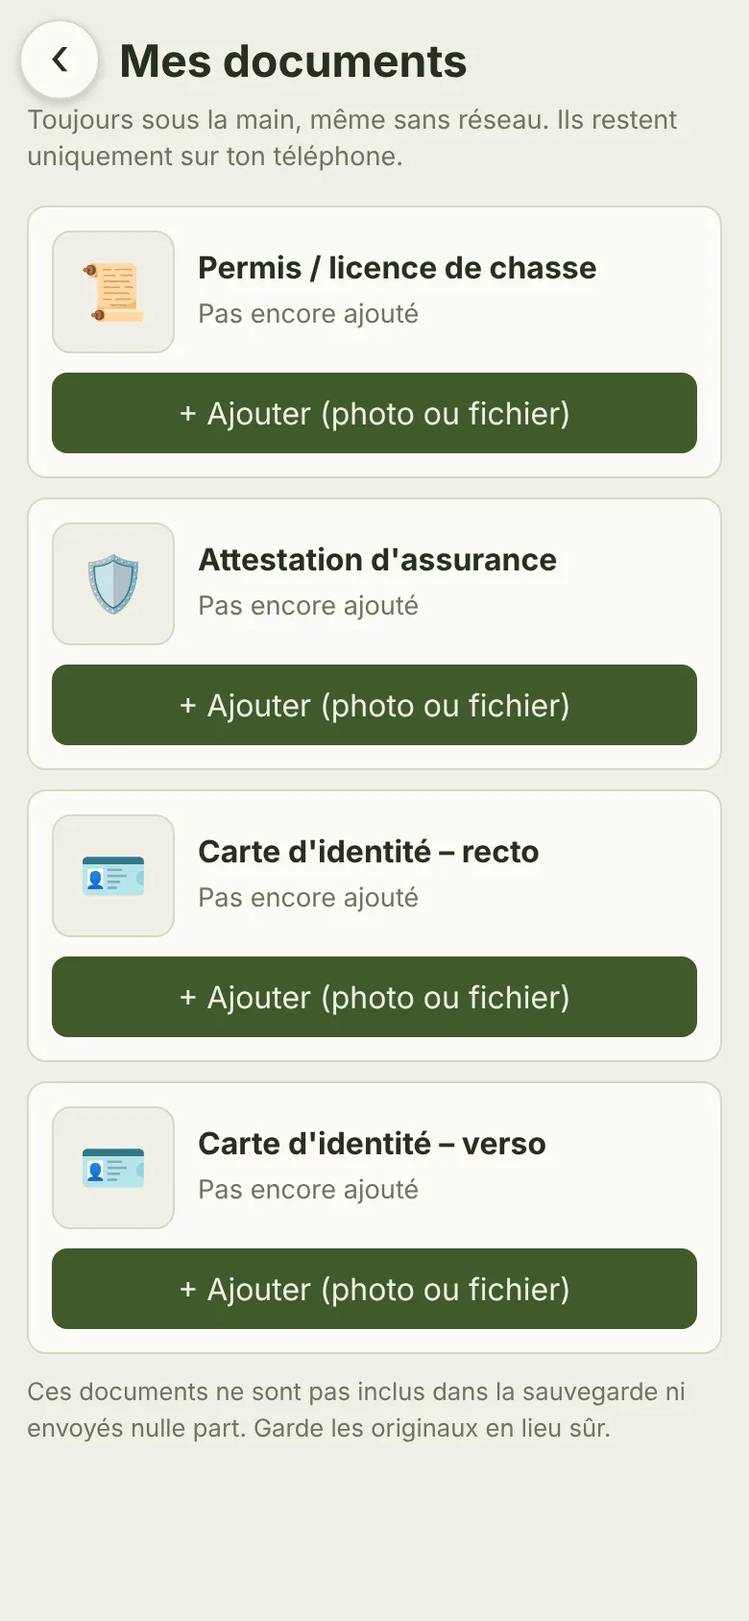
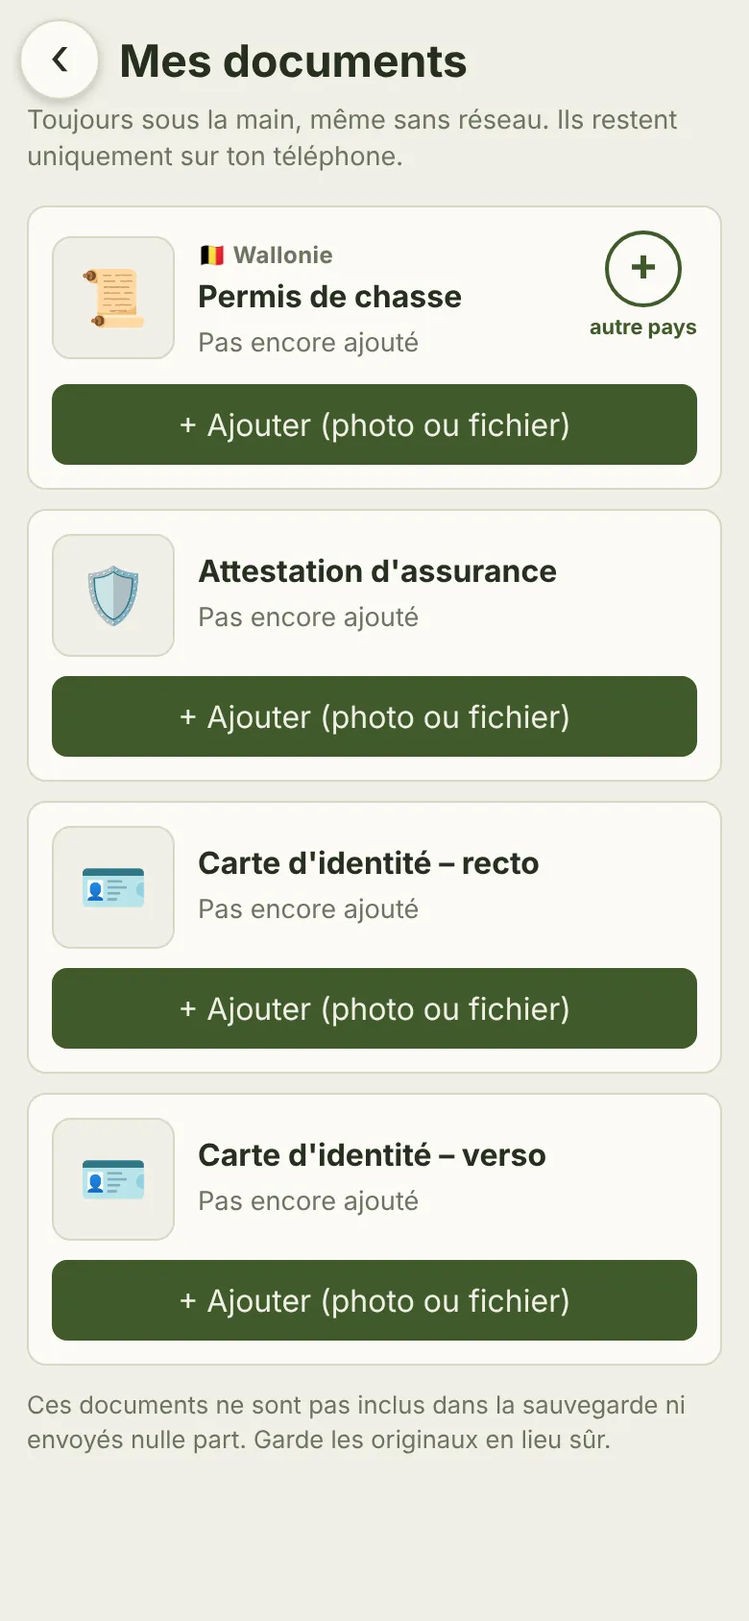
Menu épuré (proposition A) et page Paramètres
- menu : affichage, Ma chasse (4 rubriques), Paramètres, Inviter, Suivez-nous (Facebook), Donner mon avis
- page Paramètres : région, thème, rappels, synchronisation, import/export, sauvegarde, statistiques anonymes, visite guidée, à propos
- visite guidée : images et repères mis à jour
- version 2026-10-14g, sw v56

Claude-Session: https://claude.ai/code/session_0186hciEuPyU4mgRMjZZiZQe

Changed region(s): [[0.0308, 0.1232, 0.9538, 0.8934], [0.0923, 0.7085, 0.2154, 0.7393]]

diff --git a/index.html b/index.html
@@ -31,6 +31,19 @@ label{display:block;font-size:.85rem;color:var(--mut);margin:10px 0 3px}label.ck
 .row{display:flex;gap:8px;align-items:center}.row>*{flex:1}
 #dr{position:fixed;left:0;top:0;bottom:0;max-height:100dvh;overscroll-behavior:contain;width:var(--dw);background:var(--card);border-right:1px solid var(--line);transform:translateX(-100%);transition:transform .25s;padding:calc(14px + env(safe-area-inset-top,0px)) 12px calc(14px + env(safe-area-inset-bottom,0px));display:flex;flex-direction:column;overflow:auto;z-index:5}
 body.dr #dr{transform:none}
+#dr .dhd{display:flex;align-items:center;justify-content:space-between;gap:8px;margin:2px 4px 6px}#dr .dhd b{font:800 1.35rem system-ui}
+.dchip{border:0;background:var(--bg);color:var(--ink);border-radius:20px;padding:6px 11px;font:600 .82rem system-ui;white-space:nowrap}
+.dlab{font:700 .7rem system-ui;letter-spacing:.08em;text-transform:uppercase;color:var(--mut);margin:12px 8px 6px}
+.dseg{display:flex;background:var(--bg);border-radius:12px;padding:3px}.dseg button{flex:1;border:0;background:none;color:var(--mut);font:600 .88rem system-ui;padding:8px 0;border-radius:9px}.dseg button.on{background:var(--card);color:var(--acc);box-shadow:0 1px 3px #0002}
+#dr .m.mi2{display:flex;align-items:center;gap:13px;padding:10px 8px}.mi{width:22px;height:22px;flex:0 0 auto;stroke:var(--acc);fill:none;stroke-width:1.8;stroke-linecap:round;stroke-linejoin:round}
+.dch{margin-left:auto;color:var(--mut);font-size:1.2rem;line-height:1}
+.dfb{display:flex;align-items:center;justify-content:center;gap:8px;width:100%;border:0;border-radius:12px;background:#e8a032;color:#2a1c05;font:800 .98rem system-ui;padding:12px 10px;margin-top:8px;box-shadow:0 2px 8px #0002}.dfb .mi{stroke:#2a1c05;width:18px;height:18px;stroke-width:2}
+.dver{margin:9px 0 0;text-align:center;font:.72rem system-ui;color:var(--mut)}
+.sgl{font:700 .72rem system-ui;letter-spacing:.08em;text-transform:uppercase;color:var(--mut);margin:16px 6px 6px}
+.sgg{background:var(--card);border:1px solid var(--line);border-radius:14px;overflow:hidden}.sgr{display:flex;align-items:center;gap:12px;width:100%;padding:12px 14px;border:0;border-top:1px solid var(--line);background:none;color:var(--ink);font:500 .97rem system-ui;text-align:left;min-height:52px}.sgg>.sgr:first-child{border-top:0}
+.sgr .mi{width:20px;height:20px}.sgr .sv{margin-left:auto;color:var(--mut);font-size:.88rem;display:flex;align-items:center;gap:6px;white-space:nowrap}.sgr .sv:after{content:"›";font-size:1.25rem;line-height:1}.sgr .sv.nv:after{content:""}
+.sgr small{display:block;color:var(--mut);font-size:.8rem;margin-top:2px;line-height:1.35}.sgr select{margin-left:auto;width:auto;max-width:52%;padding:6px 8px;font-size:.88rem}
+.sgg .sgr.shtg{padding:12px 14px;border-bottom:0;justify-content:flex-start;gap:12px;font:500 .97rem system-ui}.sgr.shtg>span{flex:1}.sgr .seg{margin:0 0 0 auto}.sgr .seg button{padding:6px 10px;font-size:.85rem}
 #dr h2{margin:0 0 10px}#dr .m{display:block;width:100%;text-align:left;background:none;border:0;color:var(--ink);padding:11px 8px;border-radius:8px;font-size:1rem}
 #dr .m.on{background:var(--bg);color:var(--acc);font-weight:700}#dr hr{border:0;border-top:1px solid var(--line);margin:8px 0;width:100%}
 .hd{display:flex;align-items:center;gap:6px;margin-bottom:8px}.hd b{flex:1;font:600 1rem system-ui;min-width:0}
@@ -270,12 +283,39 @@ html.in-on,html.in-on body{overflow:hidden}
 .dtag{display:inline-block;font-size:.75rem;font-weight:700;color:var(--mut);letter-spacing:.02em}.dplus{flex:0 0 auto;align-self:flex-start;border:0;background:none;color:var(--acc);padding:0;display:flex;flex-direction:column;align-items:center;gap:3px}.dplus b{width:40px;height:40px;border-radius:50%;border:2px solid var(--acc);display:flex;align-items:center;justify-content:center;font:700 1.5rem/1 system-ui;padding-bottom:3px;box-sizing:border-box}.dplus small{font:700 .68rem system-ui;white-space:nowrap}.pxl{display:flex;flex-wrap:wrap;gap:6px}.pxc{border:1px solid var(--line);background:var(--card);color:var(--ink);border-radius:12px;padding:9px 11px;font:600 .9rem system-ui;display:flex;align-items:center;gap:6px}.pxc.on{border-color:var(--acc);background:var(--acc);color:#fff}.pxc small{font-size:.7rem;font-weight:700;opacity:.8;text-transform:uppercase;margin-left:2px}.dth{width:64px;height:64px;border-radius:10px;object-fit:cover;flex:0 0 64px;background:var(--bg);border:1px solid var(--line)}.dth.em{display:flex;align-items:center;justify-content:center;font-size:1.8rem}.dth.pdf{display:flex;align-items:center;justify-content:center;font:800 .9rem system-ui;color:#fff;background:#b3261e;border:0}
 #dview{position:fixed;inset:0;z-index:1200;background:#000e;display:flex;align-items:center;justify-content:center;overflow:auto;touch-action:pinch-zoom}#dview img{max-width:100%;max-height:100%;object-fit:contain}#dview button{position:fixed;top:calc(12px + env(safe-area-inset-top));right:12px;width:48px;height:48px;border-radius:50%;border:3px solid #fff;background:#d32f2f;color:#fff;font:800 1.3rem system-ui;box-shadow:0 4px 14px #000a;z-index:2}
 </style></head><body>
-<aside id="dr"><h2>ChasseLog</h2>
-<button class="m" data-cv="year">Année</button><button class="m" data-cv="month">Mois</button><button class="m" data-cv="week">Semaine</button><button class="m" data-cv="day">Jour</button>
-<hr><button class="m" id="m-tour" style="font-weight:700;color:var(--acc)">▶ Découvre l'application</button><button class="m" id="m-ouv">Périodes d'ouverture</button><button class="m" id="m-mg">Gérer mes espèces et modes de chasse</button><button class="m" id="m-ar">Mes armes</button><button class="m" id="m-doc">Mes documents</button><button class="m" id="m-rm">Paramètres de rappels</button><button class="m" id="m-st" style="display:none">Statistiques anonymes</button>
-<div style="margin-top:auto"><button id="m-fb" style="display:block;width:100%;text-align:center;border:0;border-radius:12px;background:#e8a032;color:#2a1c05;font:800 1rem system-ui;padding:14px 10px;box-shadow:0 3px 10px #0003;margin-bottom:6px">Envoyez-nous un commentaire !</button><button id="m-nl" class="m" style="text-align:center;font-weight:600;color:var(--acc);margin-bottom:4px">Être prévenu de la sortie</button><button id="m-inv" style="display:block;width:100%;text-align:center;border:2px solid var(--acc);border-radius:12px;background:none;color:var(--acc);font:700 .95rem system-ui;padding:11px 10px;margin-bottom:6px">Inviter un ami</button><hr><label>Thème</label><div class="seg" id="th"><button data-th="light">Clair</button><button data-th="dark">Sombre</button><button data-th="auto">Auto</button></div><label>Fréquence de synchronisation</label><select id="sy">
+<aside id="dr"><div class="dhd"><b>ChasseLog</b><button class="dchip" id="m-reg" aria-label="Changer de région"></button></div>
+<div class="dlab">Affichage</div><div class="dseg"><button data-cv="year">Année</button><button data-cv="month">Mois</button><button data-cv="week">Sem.</button><button data-cv="day">Jour</button></div>
+<div class="dlab">Ma chasse</div>
+<button class="m mi2" id="m-ouv"><svg class="mi" aria-hidden="true"><use href="#i-sun"/></svg>Périodes d'ouverture</button><button class="m mi2" id="m-mg"><svg class="mi" aria-hidden="true"><use href="#i-leaf"/></svg>Mes espèces et modes</button><button class="m mi2" id="m-ar"><svg class="mi" aria-hidden="true"><use href="#i-tgt"/></svg>Mes armes</button><button class="m mi2" id="m-doc"><svg class="mi" aria-hidden="true"><use href="#i-doc"/></svg>Mes documents</button>
+<div style="margin-top:auto;padding-top:10px"><hr>
+<button class="m mi2" id="m-set"><svg class="mi" aria-hidden="true"><use href="#i-gear"/></svg>Paramètres<span class="dch">›</span></button><button class="m mi2" id="m-inv"><svg class="mi" aria-hidden="true"><use href="#i-usr"/></svg>Inviter un ami</button><button class="m mi2" id="m-fol"><svg class="mi" aria-hidden="true"><use href="#i-heart"/></svg>Suivez-nous !</button>
+<button id="m-fb" class="dfb"><svg class="mi" aria-hidden="true"><use href="#i-msg"/></svg>Donner mon avis</button><p class="dver" id="dver"></p></div>
+<div id="dr-old" hidden>
+
+<hr><button class="m" id="m-tour" style="font-weight:700;color:var(--acc)">▶ Découvre l'application</button><button class="m" id="m-rm">Paramètres de rappels</button><button class="m" id="m-st" style="display:none">Statistiques anonymes</button>
+<div style="margin-top:auto"><button id="m-nl" class="m" style="text-align:center;font-weight:600;color:var(--acc);margin-bottom:4px">Être prévenu de la sortie</button><hr><label>Thème</label><div class="seg" id="th"><button data-th="light">Clair</button><button data-th="dark">Sombre</button><button data-th="auto">Auto</button></div><label>Fréquence de synchronisation</label><select id="sy">
 <option value="manual">Manuelle</option><option value="15">Toutes les 15 minutes</option><option value="60">Toutes les heures</option><option value="day">Une fois par jour</option><option value="wifi">Dès que le réseau revient</option></select>
-<button class="m" id="m-sy">Synchroniser maintenant</button><button class="m" id="m-im">Importer un calendrier</button><button class="m" id="m-ex">Exporter mon calendrier</button><button class="m" id="m-bk">Sauvegarde automatique</button><p style="margin:10px 8px 0;font:.75rem system-ui;color:var(--mut)">ChasseLog bêta web · version 2026-10-14f<br>Météo : KNMI Harmonie (2 km) et ECMWF, via Open-Meteo.com</p></div></aside>
+<button class="m" id="m-sy">Synchroniser maintenant</button><button class="m" id="m-im">Importer un calendrier</button><button class="m" id="m-ex">Exporter mon calendrier</button><button class="m" id="m-bk">Sauvegarde automatique</button><p style="margin:10px 8px 0;font:.75rem system-ui;color:var(--mut)">ChasseLog bêta web · version 2026-10-14g<br>Météo : KNMI Harmonie (2 km) et ECMWF, via Open-Meteo.com</p></div></div></aside>
+<svg width="0" height="0" style="position:absolute" aria-hidden="true"><defs>
+<symbol id="i-sun" viewBox="0 0 24 24"><path d="M12 3v2M12 19v2M4.2 4.2l1.4 1.4M18.4 18.4l1.4 1.4M3 12h2M19 12h2M4.2 19.8l1.4-1.4M18.4 5.6l1.4-1.4"/><circle cx="12" cy="12" r="4"/></symbol>
+<symbol id="i-tgt" viewBox="0 0 24 24"><circle cx="12" cy="12" r="8"/><circle cx="12" cy="12" r="3"/><path d="M12 2v4M12 18v4M2 12h4M18 12h4"/></symbol>
+<symbol id="i-doc" viewBox="0 0 24 24"><path d="M14 3H7a2 2 0 0 0-2 2v14a2 2 0 0 0 2 2h10a2 2 0 0 0 2-2V8z"/><path d="M14 3v5h5M9 13h6M9 17h4"/></symbol>
+<symbol id="i-leaf" viewBox="0 0 24 24"><path d="M5 19c0-8 5-14 15-14 0 10-6 15-14 15"/><path d="M5 19l7-7"/></symbol>
+<symbol id="i-gear" viewBox="0 0 24 24"><circle cx="12" cy="12" r="3"/><path d="M19.4 15a1.7 1.7 0 0 0 .3 1.8l.1.1a2 2 0 1 1-2.8 2.8l-.1-.1a1.7 1.7 0 0 0-1.8-.3 1.7 1.7 0 0 0-1 1.5V21a2 2 0 1 1-4 0v-.1a1.7 1.7 0 0 0-1.1-1.5 1.7 1.7 0 0 0-1.8.3l-.1.1a2 2 0 1 1-2.8-2.8l.1-.1a1.7 1.7 0 0 0 .3-1.8 1.7 1.7 0 0 0-1.5-1H3a2 2 0 1 1 0-4h.1a1.7 1.7 0 0 0 1.5-1.1 1.7 1.7 0 0 0-.3-1.8l-.1-.1a2 2 0 1 1 2.8-2.8l.1.1a1.7 1.7 0 0 0 1.8.3H9a1.7 1.7 0 0 0 1-1.5V3a2 2 0 1 1 4 0v.1a1.7 1.7 0 0 0 1 1.5 1.7 1.7 0 0 0 1.8-.3l.1-.1a2 2 0 1 1 2.8 2.8l-.1.1a1.7 1.7 0 0 0-.3 1.8V9a1.7 1.7 0 0 0 1.5 1H21a2 2 0 1 1 0 4h-.1a1.7 1.7 0 0 0-1.5 1z"/></symbol>
+<symbol id="i-msg" viewBox="0 0 24 24"><path d="M21 12a8 8 0 0 1-11.6 7.1L4 20l1-4.6A8 8 0 1 1 21 12z"/></symbol>
+<symbol id="i-usr" viewBox="0 0 24 24"><circle cx="9" cy="8" r="4"/><path d="M2 21c0-4 3-6 7-6s7 2 7 6M19 8v6M16 11h6"/></symbol>
+<symbol id="i-heart" viewBox="0 0 24 24"><path d="M12 20s-8-4.6-8-10.5A4.5 4.5 0 0 1 12 7a4.5 4.5 0 0 1 8 2.5C20 15.4 12 20 12 20z"/></symbol>
+<symbol id="i-bell" viewBox="0 0 24 24"><path d="M6 8a6 6 0 0 1 12 0c0 7 3 9 3 9H3s3-2 3-9M10 21h4"/></symbol>
+<symbol id="i-sync" viewBox="0 0 24 24"><path d="M21 12a9 9 0 0 1-15 6.7L3 16M3 12a9 9 0 0 1 15-6.7L21 8M21 3v5h-5M3 21v-5h5"/></symbol>
+<symbol id="i-dl" viewBox="0 0 24 24"><path d="M12 3v12M7 10l5 5 5-5M4 21h16"/></symbol>
+<symbol id="i-ul" viewBox="0 0 24 24"><path d="M12 15V3M7 8l5-5 5 5M4 21h16"/></symbol>
+<symbol id="i-save" viewBox="0 0 24 24"><path d="M5 3h11l5 5v11a2 2 0 0 1-2 2H5a2 2 0 0 1-2-2V5a2 2 0 0 1 2-2z"/><path d="M7 3v6h8M7 21v-7h10v7"/></symbol>
+<symbol id="i-eye" viewBox="0 0 24 24"><path d="M2 12s4-7 10-7 10 7 10 7-4 7-10 7S2 12 2 12z"/><circle cx="12" cy="12" r="3"/></symbol>
+<symbol id="i-play" viewBox="0 0 24 24"><circle cx="12" cy="12" r="9"/><path d="M10 8l6 4-6 4z"/></symbol>
+<symbol id="i-moon" viewBox="0 0 24 24"><path d="M21 13A9 9 0 1 1 11 3a7 7 0 0 0 10 10z"/></symbol>
+<symbol id="i-pin" viewBox="0 0 24 24"><path d="M12 21s-7-6-7-12a7 7 0 0 1 14 0c0 6-7 12-7 12z"/><circle cx="12" cy="9" r="2.5"/></symbol>
+<symbol id="i-info" viewBox="0 0 24 24"><circle cx="12" cy="12" r="9"/><path d="M12 11v5M12 8h.01"/></symbol>
+</defs></svg>
 <div id="page"><main id="app"></main></div>
 <script>
 const G={"Grand gibier":["Cerf élaphe","Chevreuil","Sanglier","Daim","Mouflon","Chamois"],
@@ -355,7 +395,7 @@ function shifted(k){const d=new Date(cur);if(cv=="month")return new Date(d.getFu
 function step(k){cur=shifted(k);render()}
 function isoWeek(d){const t=new Date(Date.UTC(d.getFullYear(),d.getMonth(),d.getDate())),w=t.getUTCDay()||7;t.setUTCDate(t.getUTCDate()+4-w);return Math.ceil(((t-Date.UTC(t.getUTCFullYear(),0,1))/864e5+1)/7)}
 const VIEWS={};
-function render(){rmBar();if(view!="cal")["#mdb","#bkb"].forEach(q=>{const x=$(q);if(x)x.remove()});$("#app").className=view=="cal"?"full":"";document.body.classList.toggle("cal",view=="cal");document.querySelectorAll("[data-cv]").forEach(b=>b.classList.toggle("on",b.dataset.cv==cv&&view=="cal"));({cal:rCal,stats:rStats,fiche:rFiche,sum:rSum,sj:rJours,sr:rRates,ar:rArmes,docs:rDocs,fb:rFeedback,pick:rPick,ouv:rOuv})[view]();hydrate()}
+function render(){rmBar();if(view!="cal")["#mdb","#bkb"].forEach(q=>{const x=$(q);if(x)x.remove()});$("#app").className=view=="cal"?"full":"";document.body.classList.toggle("cal",view=="cal");document.querySelectorAll("[data-cv]").forEach(b=>b.classList.toggle("on",b.dataset.cv==cv&&view=="cal"));({cal:rCal,stats:rStats,fiche:rFiche,sum:rSum,sj:rJours,sr:rRates,ar:rArmes,docs:rDocs,set:rSet,fb:rFeedback,pick:rPick,ouv:rOuv})[view]();hydrate()}
 function dl(n,t,c){const a=document.createElement("a");a.href=URL.createObjectURL(new Blob([c],{type:t}));a.download=n;a.click()}
 /* modèle de tir : r = résultat (p prélevé · m manqué · b blessé / je ne sais pas), k = nombre d'animaux, n = munitions tirées.
    p, m, h sont dérivés : p = animaux prélevés, m = 1 animal manqué, h = animaux blessés / incertains */
@@ -504,7 +544,7 @@ let BIP=null;addEventListener("beforeinstallprompt",e=>{e.preventDefault();BIP=e
  $("#in-sk").onclick=()=>{try{sessionStorage.setItem("chasselog-skipinst","1")}catch(e){}o.remove();document.documentElement.classList.remove("in-on")}})();
 
 /* ---------- visite guidée « Découvre l'application » ---------- */
-const TAPS={"mn":[30.0,26.0],"ouv":[149.5,297.5],"om":[192.2,102.9],"fab":[344.0,796.0],"title":[195.0,190.8],"ta":[122.6,434.6],"save":[285.5,813.0],"pst":[195.0,26.0],"bang":[195.0,793.0],"psok":[330.8,762.3],"sang":[71.7,172.8],"plus":[80.7,200.5],"ok":[261.3,813.9],"cpl":[283.1,101.5],"sx":[308.0,689.3],"kg":[308.0,689.3],"photo":[195.0,788.6],"tb":[195.0,651.9],"tabplus":[344.0,591.2],"fsave":[261.3,804.8],"share":[195.0,152.3],"stats":[46.0,796.0],"sprev":[248.0,75.6],"mdoc":[149.5,443.5],"dadd":[195,214.6],"dvid":[73.3,683.6],"tok":[195.0,1091.9],"muok":[285.0,807.0]};
+const TAPS={"mn":[30.0,26.0],"ouv":[149.5,174.0],"om":[192.2,102.9],"fab":[344.0,796.0],"title":[195.0,190.8],"ta":[122.6,434.6],"save":[285.5,813.0],"pst":[195.0,26.0],"bang":[195.0,793.0],"psok":[330.8,762.3],"sang":[71.7,172.8],"plus":[80.7,200.5],"ok":[261.3,813.9],"cpl":[283.1,101.5],"sx":[308.0,689.3],"kg":[308.0,689.3],"photo":[195.0,788.6],"tb":[195.0,651.9],"tabplus":[344.0,591.2],"fsave":[261.3,804.8],"share":[195.0,152.3],"stats":[46.0,796.0],"sprev":[248.0,75.6],"mdoc":[149.5,300.0],"dadd":[195.0,220.7],"dvid":[73.3,730.5],"tok":[195.0,1091.9],"muok":[285.0,807.0]};
 // étapes : [titre, texte, actions]. Actions : ["s",écran] afficher, ["sl",écran] défiler, ["t",bouton] toucher, ["n",note] note jaune, ["w",ms] attendre, ["r",bouton] anneau, ["i",image] image par-dessus
 const TOUR=[
  ["Consulte les périodes d'ouverture","Les dates d'ouverture et de fermeture du gibier dans ta région (Wallonie ou ton département en France), selon ton mode de chasse.",[["s","cal0"],["w",1400],["t","mn"],["s","drawer"],["w",1500],["t","ouv"],["s","ouv0"],["n","Ce qui est ouvert aujourd'hui, avec la frise de la saison"],["w",3200],["t","om"],["s","ouv1"],["n","Choisis ton mode : battue, approche et affût, chasse à vol"],["w",2800],["sl","ouv2"],["w",1500]]],
@@ -618,7 +658,7 @@ function startSetup(){if($("#setup"))return;track("setup_started");shut&&documen
 const isSA=()=>["standalone","fullscreen","minimal-ui"].some(m=>matchMedia(`(display-mode: ${m})`).matches)||navigator.standalone===true;
 function tourAsk(){if(S.tourAsked||!(isSA()||/[?&]tour/.test(location.search)))return;if(!popFree()){setTimeout(tourAsk,4000);return}
  S.tourAsked=true;save();modal(`<div style="text-align:center"><img src="icons/icon-192.png" alt="" style="width:72px;height:72px;border-radius:16px;margin:4px auto 8px;display:block"><h2 style="margin:0 0 6px">Bienvenue dans ChasseLog !</h2><p class="sans" style="font-size:1rem;line-height:1.5;margin:0 0 16px">Découvre en 2 minutes comment encoder tes journées, tes tirs et suivre ta saison.</p>
- <button class="p li" id="ta-go">Lancer la visite guidée</button><button class="s li" id="ta-no">Plus tard</button><p class="mut sans" style="font-size:.82rem;margin:10px 0 0">Tu la retrouves à tout moment dans le menu ☰ › Découvre l'application.</p></div>`);
+ <button class="p li" id="ta-go">Lancer la visite guidée</button><button class="s li" id="ta-no">Plus tard</button><p class="mut sans" style="font-size:.82rem;margin:10px 0 0">Tu la retrouves à tout moment dans le menu ☰ › Paramètres › Revoir la visite guidée.</p></div>`);
  $("#ta-go").onclick=()=>{closeM();startTour()};$("#ta-no").onclick=()=>closeM()}
 /* ---------- statistiques d'utilisation anonymes (PostHog, hébergé en Europe) ----------
    Seuls des compteurs anonymes sont envoyés (ex. « journée créée », « BANG »), jamais les tirs, lieux, positions GPS ni documents. */
@@ -650,7 +690,7 @@ const frNom=c=>(FRD.find(d=>d[0]==c)||[])[1]||"";
 const regLbl=()=>S.reg=="fr"?(S.dep?frNom(S.dep)+" ("+S.dep+")":"France"):S.reg=="xx"?"Autre pays":"Wallonie";
 const regFlag=()=>S.reg=="fr"?"🇫🇷":S.reg=="xx"?"🌍":"🇧🇪";
 let FRO=null;async function frData(){if(FRO)return FRO;try{const r=await fetch("data/ouv-fr.json");if(r.ok)FRO=await r.json()}catch(e){}return FRO}
-function regSet(reg,dep){S.reg=reg;S.dep=reg=="fr"?dep:null;S.regAsked=true;save();track("region_set",{reg,dep:reg=="fr"?dep:null});if(reg=="fr")frData()}
+function regSet(reg,dep){S.reg=reg;S.dep=reg=="fr"?dep:null;S.regAsked=true;save();try{drChip()}catch(e){}track("region_set",{reg,dep:reg=="fr"?dep:null});if(reg=="fr")frData()}
 const depSel=(id,v)=>`<select id="${id}" class="rgsel"><option value="">Choisis ton département…</option>${FRD.map(([c,n])=>`<option value="${c}"${v==c?" selected":""}>${c} · ${esc(n)}</option>`).join("")}</select>`;
 /* bloc de choix réutilisable (accueil, popup, réglage) */
 function regBlock(p){const r=S.reg||"",d=S.dep||"";return `<div class="rgw" id="${p}-w"><div class="rgb">
@@ -664,7 +704,7 @@ function regWire(p,onDone){let r=S.reg||"",d=S.dep||"";const w=$("#"+p+"-w");if(
  $("#"+p+"-s").onchange=e=>{d=e.target.value;if(d)onDone("fr",d)}}
 function regModal(first){modal(`<div style="text-align:center"><div style="font-size:2.3rem;line-height:1;margin:2px 0 8px">📍</div><h2 style="margin:0 0 6px">Où chasses-tu ?</h2><p class="sans" style="font-size:.98rem;line-height:1.5;margin:0 0 14px">${first?"ChasseLog arrive en France ! ":""}Indique où tu chasses : ChasseLog te donnera les <b>dates d'ouverture les plus justes</b> pour ta région.</p></div>
  ${regBlock("rgm")}<p class="mut sans" style="font-size:.8rem;text-align:center;margin:12px 0 0">Tu peux le changer à tout moment dans ☰ › Périodes d'ouverture.</p>`);
- regWire("rgm",(r,d)=>{regSet(r,d);closeM();toast(r=="fr"?"C'est noté : "+frNom(d)+" ("+d+").":r=="be"?"C'est noté : Wallonie.":"C'est noté.");if(view=="ouv")render()});return $("#mo")}
+ regWire("rgm",(r,d)=>{regSet(r,d);closeM();toast(r=="fr"?"C'est noté : "+frNom(d)+" ("+d+").":r=="be"?"C'est noté : Wallonie.":"C'est noté.");if(view=="ouv"||view=="set")render()});return $("#mo")}
 /* demande unique aux utilisateurs existants, après les autres popups */
 function regAsk(){if(!S.regFix1){S.regFix1=1;if(!S.reg)S.regAsked=false;save()}if(S.reg||S.regAsked)return;if(firstRunPending()||(!S.tourAsked&&isSA())||(S.upNote!=UPN&&(evs().length||S.tourAsked))||(!S.newsDocs&&!(S.docs&&Object.keys(S.docs).length))||!popFree()){setTimeout(regAsk,2500);return}
  const m=regModal(true);/* « déjà demandé » seulement si l'utilisateur ferme lui-même la fenêtre (pas lors d'un rechargement / mise à jour) */
@@ -673,7 +713,7 @@ setTimeout(regAsk,2200);
 const regBar=()=>`<button class="rgbar" id="rg-ch"><span>${regFlag()}</span><b>${esc(regLbl())}</b><i>Changer</i></button>`;
 const regBind=()=>{if($("#rg-ch"))$("#rg-ch").onclick=()=>regModal(false)};
 function rOuvXX(){$("#app").innerHTML=`${BKB}<h1 style="margin-top:4px;padding-left:48px">Périodes d'ouverture</h1>${regBar()}
- <div class="card sans" style="line-height:1.5;margin-top:12px">Les périodes d'ouverture ne sont pas encore disponibles pour ton pays. ChasseLog couvre aujourd'hui la <b>Wallonie</b> et la <b>France</b>.<br><br>Dis-nous où tu chasses via ☰ › <b>« Envoyez-nous un commentaire ! »</b> : ton pays arrivera peut-être bientôt !</div><button class="p" id="xx-fb" style="width:100%;margin-top:10px">Dire où je chasse</button>`;$("#bk2").onclick=backTo;regBind();$("#xx-fb").onclick=()=>go("fb")}
+ <div class="card sans" style="line-height:1.5;margin-top:12px">Les périodes d'ouverture ne sont pas encore disponibles pour ton pays. ChasseLog couvre aujourd'hui la <b>Wallonie</b> et la <b>France</b>.<br><br>Dis-nous où tu chasses via ☰ › <b>« Donner mon avis »</b> : ton pays arrivera peut-être bientôt !</div><button class="p" id="xx-fb" style="width:100%;margin-top:10px">Dire où je chasse</button>`;$("#bk2").onclick=backTo;regBind();$("#xx-fb").onclick=()=>go("fb")}
 
 /* France : périodes en dates complètes (la saison peut aller de juin à juin) */
 const fDays=(a,b)=>Math.round((new Date(b+"T12:00")-new Date(a+"T12:00"))/864e5);
@@ -727,9 +767,9 @@ function onboard(){S.tourAsked=true;S.newsDocs=true;S.upNote=UPN;save();if($("#o
   if(st==0)h=`<div class="ob-c ob-wl"><img class="ob-lg" src="icons/icon-192.png" alt=""><h1>Bienvenue dans ChasseLog !</h1><p>Ton carnet de chasse : tes journées, tes tirs et ta saison, toujours dans ta poche.</p><p>On prépare tout ensemble en 2 minutes.</p></div><button class="ob-go" id="ob-n">Commencer</button>`;
   else if(st==1)h=bar(1)+`<div class="ob-bd"><div class="ob-ic">📊</div><h1>Aide-nous à améliorer ChasseLog</h1><p class="ob-sub">Partages-tu des statistiques d'utilisation <b>anonymes</b> ? Par exemple : « une journée a été créée », ta région, tes espèces préférées.</p><div class="ob-nt">🔒 Jamais tes tirs, tes lieux, tes positions GPS ni tes documents. Si tu refuses, on note seulement « un refus ». Modifiable à tout moment dans le menu.</div></div><button class="ob-go" id="ob-y">Oui, j'aide ChasseLog</button><button class="ob-no" id="ob-no">Non merci</button>`;
   else if(st==2)h=bar(2)+`<div class="ob-bd"><div class="ob-ic">📍</div><h1>Où chasses-tu ?</h1><p class="ob-sub">Pour te donner les dates d'ouverture les plus justes.</p>${regBlock("ob")}</div><button class="ob-go" id="ob-n" ${S.reg&&(S.reg!="fr"||S.dep)?"":"disabled"}>Continuer</button>`;
-  else if(st==3){const L=SPM.filter(x=>ALL.includes(x));h=bar(3)+`<div class="ob-bd"><h1>Tes espèces</h1><p class="ob-sub">Touche celles que tu chasses : elles te seront proposées en premier. <b>Tout est modifiable ensuite</b> dans ☰ › Gérer mes espèces et modes de chasse.</p><div class="ob-gr">${L.map(spCard).join("")}</div></div><button class="ob-go" id="ob-n">${R.sp.size?"Continuer · "+R.sp.size+" espèce"+(R.sp.size>1?"s":""):"Continuer"}</button>`}
+  else if(st==3){const L=SPM.filter(x=>ALL.includes(x));h=bar(3)+`<div class="ob-bd"><h1>Tes espèces</h1><p class="ob-sub">Touche celles que tu chasses : elles te seront proposées en premier. <b>Tout est modifiable ensuite</b> dans ☰ › Mes espèces et modes.</p><div class="ob-gr">${L.map(spCard).join("")}</div></div><button class="ob-go" id="ob-n">${R.sp.size?"Continuer · "+R.sp.size+" espèce"+(R.sp.size>1?"s":""):"Continuer"}</button>`}
   else if(st==4)h=bar(4)+`<div class="ob-bd"><div class="ob-ic">🎯</div><h1>Comment chasses-tu ?</h1><p class="ob-sub">Choisis tes modes de chasse. <b>Modifiable ensuite</b> dans les paramètres.</p><div class="ob-ch">${MODES.map(m=>`<button class="${R.md.has(m)?"on":""}" data-md="${esc(m)}">${esc(m)}</button>`).join("")}</div></div><button class="ob-go" id="ob-n">Continuer</button>`;
-  else if(st==5)h=bar(5)+`<div class="ob-c"><div class="ob-ic" style="font-size:4rem">🧭</div><h1>Découvre ChasseLog en 2 minutes</h1><p class="ob-sub">Encoder une journée, faire BANG, partager ton tableau, consulter tes stats et tes documents.</p></div><button class="ob-go" id="ob-t">Lancer la visite guidée</button><button class="ob-lt" id="ob-n">Plus tard (☰ › Découvre l'application)</button>`;
+  else if(st==5)h=bar(5)+`<div class="ob-c"><div class="ob-ic" style="font-size:4rem">🧭</div><h1>Découvre ChasseLog en 2 minutes</h1><p class="ob-sub">Encoder une journée, faire BANG, partager ton tableau, consulter tes stats et tes documents.</p></div><button class="ob-go" id="ob-t">Lancer la visite guidée</button><button class="ob-lt" id="ob-n">Plus tard (☰ › Paramètres › Revoir la visite guidée)</button>`;
   else if(st==6)h=bar(6)+`<div class="ob-bd"><div class="ob-ic">📅</div><h1>Tes journées de chasse</h1><p class="ob-sub">Comment veux-tu ajouter les dates de ta saison ?</p>
    <button class="ob-cd" id="ob-ics"><span>📥</span><div><b>Importer mon agenda</b><small>Google Agenda, Outlook, Calendrier iPhone (fichier .ics) : on repère les événements « chasse », « battue », « traque »…</small></div></button>
    <button class="ob-cd" id="ob-cal"><span>👆</span><div><b>Je les sélectionne sur un calendrier</b><small>touche tes dates, puis lieu et invités</small></div></button>
@@ -1209,7 +1249,7 @@ function rArmes(){S.guns=S.guns||[];const cat=ag.type?ARMES[ag.type]:null,brandO
 /* ---------- rappels ---------- */
 const RM=()=>{if(!S.rem)S.rem={};const r=S.rem;if(r.sleep===undefined)r.sleep=false;if(!r.time)r.time="20:00";if(r.auto===undefined)r.auto=false;return r};
 const dueOf=e=>new Date(e.date+"T"+e.rem+":00").getTime();
-const APP_V="2026-10-14f",APP_URL="https://chasselog-coder.github.io/ChasseLog/";
+const APP_V="2026-10-14g",APP_URL="https://chasselog-coder.github.io/ChasseLog/";
 const REM_ON=false;
 async function syncRem(){if(!REM_ON)return;try{const RMs=RM(),now=Date.now();let old=[];try{old=JSON.parse(await DB.get("_rem")||"[]")}catch(x){}const fired=new Set(old.filter(x=>x.fired).map(x=>x.id+"|"+x.due));
  const list=RMs.sleep?[]:evs().filter(e=>e.rem&&!e.fiche&&!e.remDone&&now-dueOf(e)<36*36e5).map(e=>({id:e.id,title:e.title,date:e.date,due:dueOf(e),fired:fired.has(e.id+"|"+dueOf(e))}));await DB.put("_rem",JSON.stringify(list));
@@ -1242,6 +1282,30 @@ const shut=()=>document.body.classList.remove("dr");
  document.addEventListener("touchend",end);document.addEventListener("touchcancel",end)})();
 document.querySelectorAll("[data-cv]").forEach(b=>b.onclick=()=>{cv=b.dataset.cv;if(cv=="day")cur=new Date();shut();go("cal")});
 $("#m-ar").onclick=()=>{shut();go("ar")};$("#m-doc").onclick=()=>{shut();go("docs")};
+const FB_PAGE="https://www.facebook.com/share/14xCaJZ8BXr/";
+const drChip=()=>{const c=$("#m-reg");if(c)c.textContent=regFlag()+" "+(S.reg=="fr"?(S.dep?S.dep+" · "+frNom(S.dep):"France"):S.reg=="xx"?"Autre pays":"Wallonie")};drChip();$("#dver").textContent="Version "+APP_V;
+$("#m-reg").onclick=()=>{shut();regModal(false)};$("#m-set").onclick=()=>{shut();go("set")};
+$("#m-fol").onclick=()=>{shut();track("follow_fb");const w=window.open(FB_PAGE,"_blank","noopener");if(!w)location.href=FB_PAGE};
+/* ---------- page Paramètres ---------- */
+function rSet(){const ic=i=>`<svg class="mi" aria-hidden="true"><use href="#i-${i}"/></svg>`,row=(id,i,t,v,sub)=>`<button class="sgr" id="${id}">${ic(i)}<span>${t}${sub?`<small>${sub}</small>`:""}</span><span class="sv${v===null?" nv":""}">${v||""}</span></button>`;
+ const syo=[["manual","Manuelle"],["15","Toutes les 15 min"],["60","Toutes les heures"],["day","Une fois par jour"],["wifi","Dès que le réseau revient"]];
+ $("#app").innerHTML=`${BKB}<h1 style="margin-top:4px;padding-left:48px">Paramètres</h1>
+ <div class="sgl">Général</div><div class="sgg">${row("sg-reg","pin","Région",esc(regLbl()))}
+  <div class="sgr">${ic("moon")}<span>Thème</span><div class="seg" id="sg-th">${[["light","Clair"],["dark","Sombre"],["auto","Auto"]].map(([k,l])=>`<button data-th2="${k}" class="${(S.theme||"light")==k?"on":""}">${l}</button>`).join("")}</div></div>
+  ${row("sg-rm","bell","Rappels","")}</div>
+ <div class="sgl">Synchronisation et données</div><div class="sgg">
+  <div class="sgr">${ic("sync")}<span>Synchronisation</span><select id="sg-sy">${syo.map(([k,l])=>`<option value="${k}" ${S.sync==k?"selected":""}>${l}</option>`).join("")}</select></div>
+  ${row("sg-sy2","sync","Synchroniser maintenant","")}${row("sg-im","dl","Importer un calendrier","",".ics de ton agenda ou sauvegarde .json")}${row("sg-ex","ul","Exporter mon calendrier","")}${row("sg-bk","save","Sauvegarde automatique","")}</div>
+ ${PH_KEY?`<div class="sgl">Confidentialité</div><div class="sgg"><label class="sgr shtg" style="margin:0">${ic("eye")}<span>Statistiques anonymes<small>Compte l'utilisation de l'app pour l'améliorer. Jamais tes tirs, tes lieux ni tes documents.</small></span><input type="checkbox" id="sg-st" ${S.stats===true?"checked":""}><i></i></label></div>`:""}
+ <div class="sgl">Aide</div><div class="sgg">${row("sg-tour","play","Revoir la visite guidée","")}${row("sg-fol","heart","Suivez-nous sur Facebook","")}${row("sg-fb","msg","Donner mon avis","")}</div>
+ <div class="sgl">À propos</div><div class="sgg"><div class="sgr">${ic("info")}<span>ChasseLog bêta web · version ${APP_V}<small>Météo : KNMI Harmonie (2 km) et ECMWF, via Open-Meteo.com</small></span></div></div><div style="height:70px"></div>`;
+ $("#bk2").onclick=backTo;
+ $("#sg-reg").onclick=()=>regModal(false);
+ document.querySelectorAll("[data-th2]").forEach(b=>b.onclick=()=>{S.theme=b.dataset.th2;save();applyTheme();thSet();render()});
+ $("#sg-sy").onchange=e=>{S.sync=e.target.value;save();const o=$("#sy");if(o)o.value=S.sync};
+ const fire=(id,leg)=>{$(id).onclick=()=>$(leg).click()};fire("#sg-rm","#m-rm");fire("#sg-sy2","#m-sy");fire("#sg-im","#m-im");fire("#sg-ex","#m-ex");fire("#sg-bk","#m-bk");fire("#sg-fol","#m-fol");fire("#sg-fb","#m-fb");
+ $("#sg-tour").onclick=()=>{go("cal");$("#m-tour").click()};
+ const st=$("#sg-st");if(st)st.onchange=e=>{S.stats=e.target.checked;if(!S.stats){S.phq=[];phOptout()}else track("stats_optin");save()}}
 if(PH_KEY)$("#m-st").style.display="block";
 $("#m-st").onclick=()=>{shut();const draw=()=>{modal(`<h2 style="margin-top:0">Statistiques anonymes</h2><p class="sans" style="line-height:1.5">ChasseLog peut compter, de façon anonyme, l'utilisation de l'app (journées créées, BANG, partages…) pour savoir ce qui est utile et s'améliorer.</p><p class="mut sans" style="font-size:.88rem">🔒 Jamais tes tirs, tes lieux, tes positions GPS ni tes documents.</p><label class="shtg"><span>Partager des statistiques anonymes</span><input type="checkbox" id="st-t" ${S.stats===true?"checked":""}><i></i></label>`);$("#st-t").onchange=e=>{S.stats=e.target.checked;if(!S.stats)S.phq=[];else track("stats_optin");save()}};draw()};$("#m-ouv").onclick=()=>{shut();go("ouv")};$("#m-fb").onclick=()=>{shut();go("fb")};$("#m-inv").onclick=()=>{shut();invite()};$("#m-nl").onclick=()=>{shut();nlModal(false)};$("#m-bk").onclick=()=>{shut();bkSettings()};
 function applyTheme(){const t=S.theme||"light";if(t=="auto")delete document.documentElement.dataset.theme;else document.documentElement.dataset.theme=t}

diff --git a/sw.js b/sw.js
@@ -1,6 +1,6 @@
 // Service worker : met l'application en cache pour qu'elle fonctionne sans connexion.
 // Les fonds de carte (OpenStreetMap) ne sont volontairement PAS mis en cache.
-const V = "carnet-v55";
+const V = "carnet-v56";
 const FILES = [
   "./", "index.html", "manifest.webmanifest", "data/ouv-fr.json",
   "icons/icon-192.png", "icons/icon-512.png", "icons/maskable-512.png", "icons/apple-touch-icon.png",
